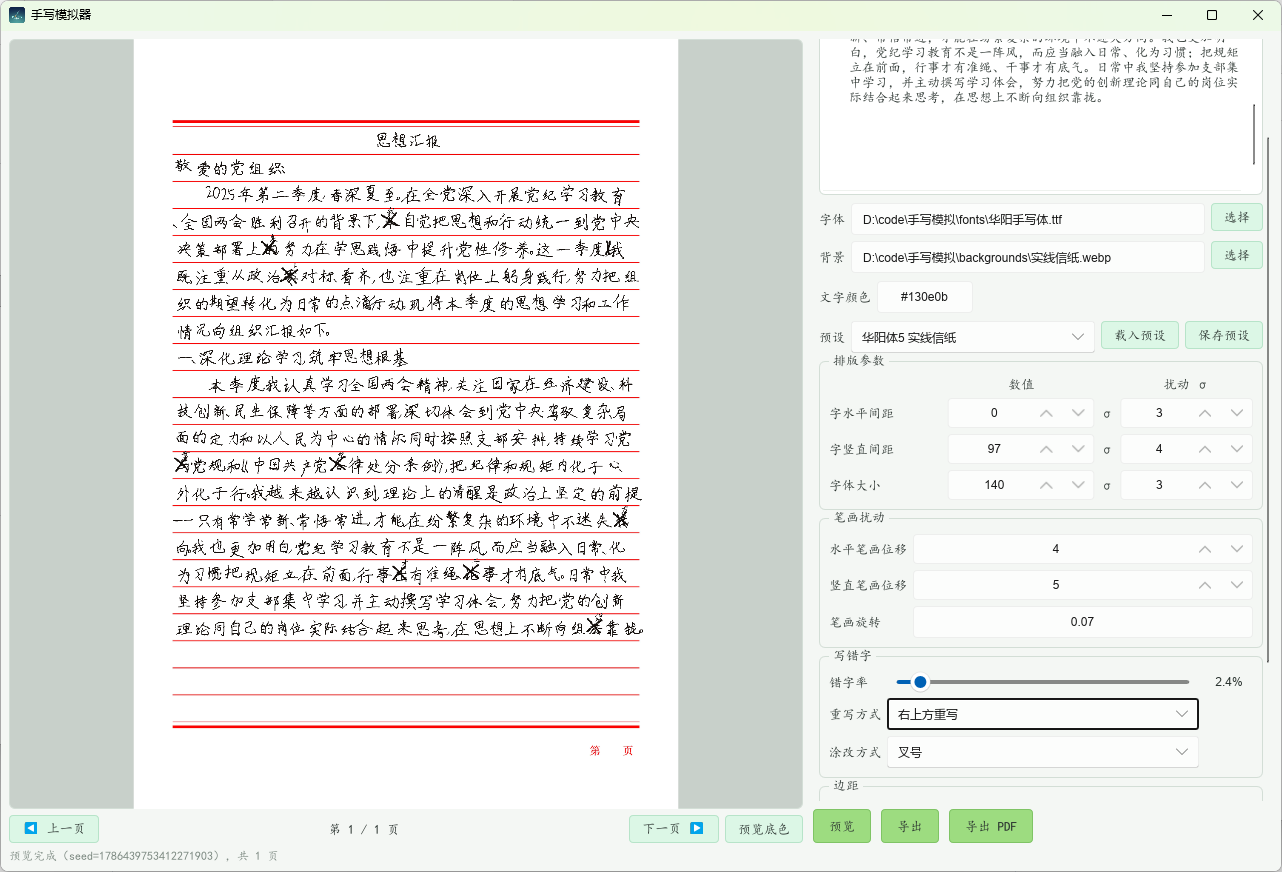
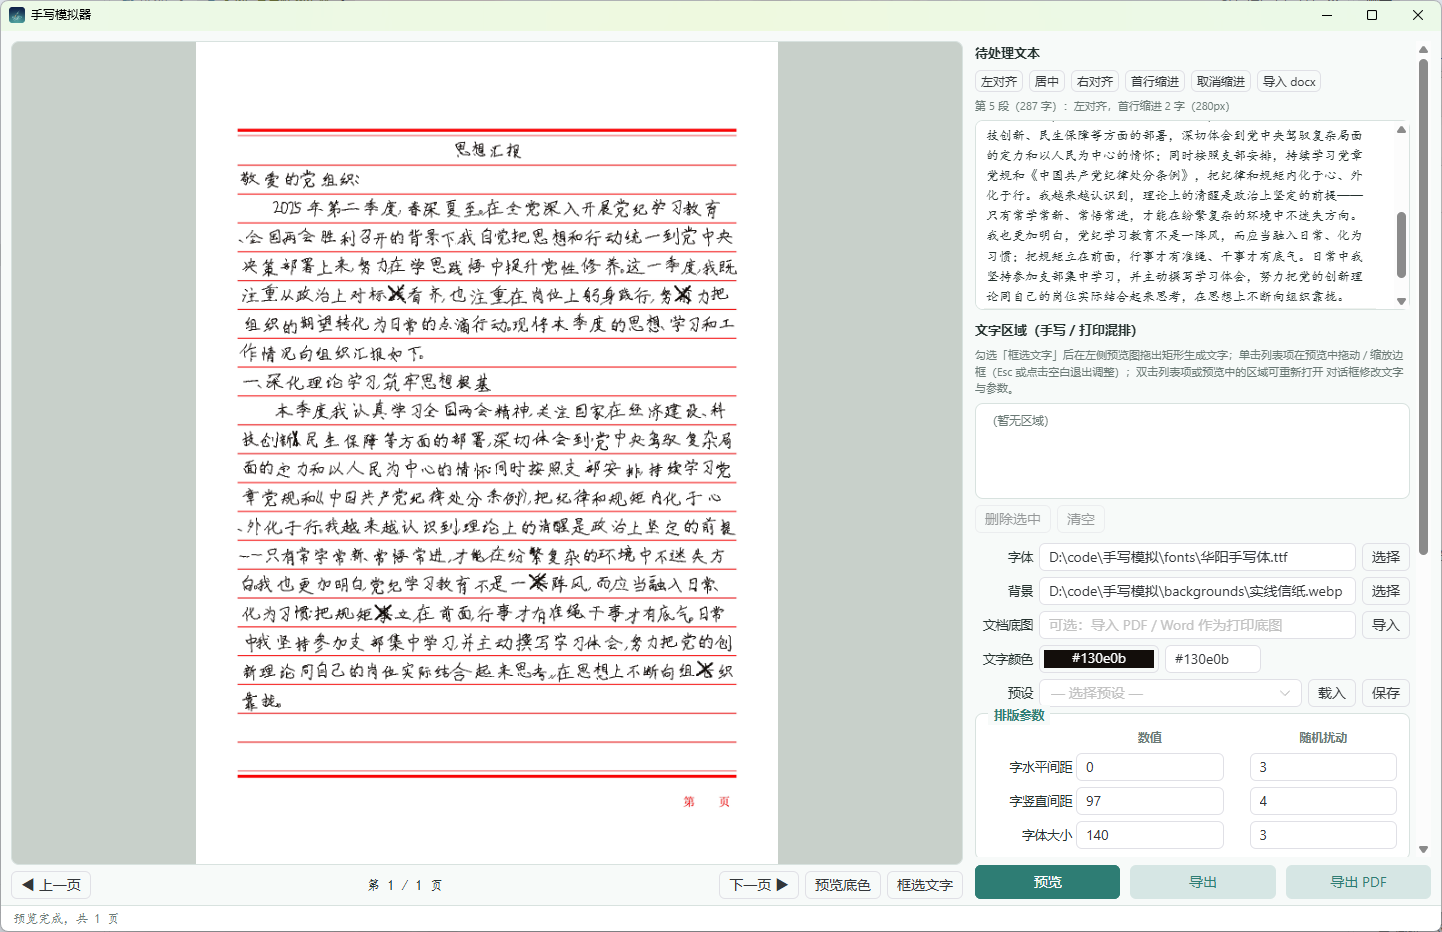
docs(readme): 更新主界面截图并新增框选文字区域示例图

diff --git a/README.md b/README.md
@@ -10,9 +10,13 @@
 
 ## 界面预览
 
-![手写模拟器界面](docs/screenshots/gui-main.png)
+![手写模拟器主界面](docs/screenshots/gui-main.png)
 
-右栏为参数面板（字体/背景选择、排版与扰动参数、写错字模拟、预设切换），左侧为多页预览区，停止输入 300ms 后自动渲染。
+右栏为参数面板（待处理文本与段落排版、文字区域、字体 / 背景 / 文档底图选择、文字颜色、预设切换、排版与扰动参数、写错字模拟），左侧为多页预览区，停止输入 300ms 后自动渲染。
+
+![框选文字区域](docs/screenshots/gui-region-select.png)
+
+预览图上拖拽画框即可创建文字区域，框内文字独立排版渲染；单击列表项或区域显示调整框，可整体拖动 / 8 向缩放二次微调，双击重新编辑。
 
 ## 与 Python 版的差异
 
